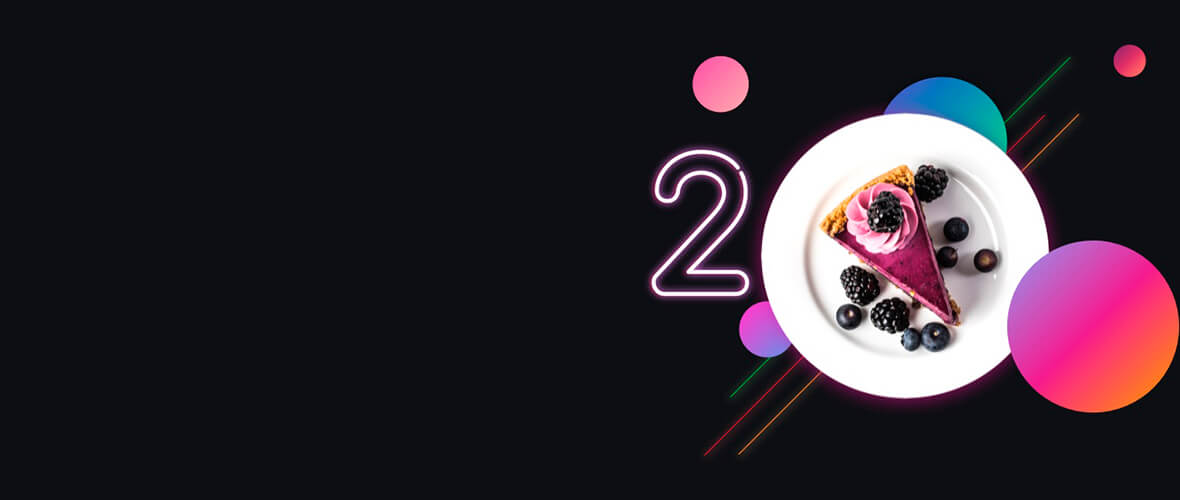
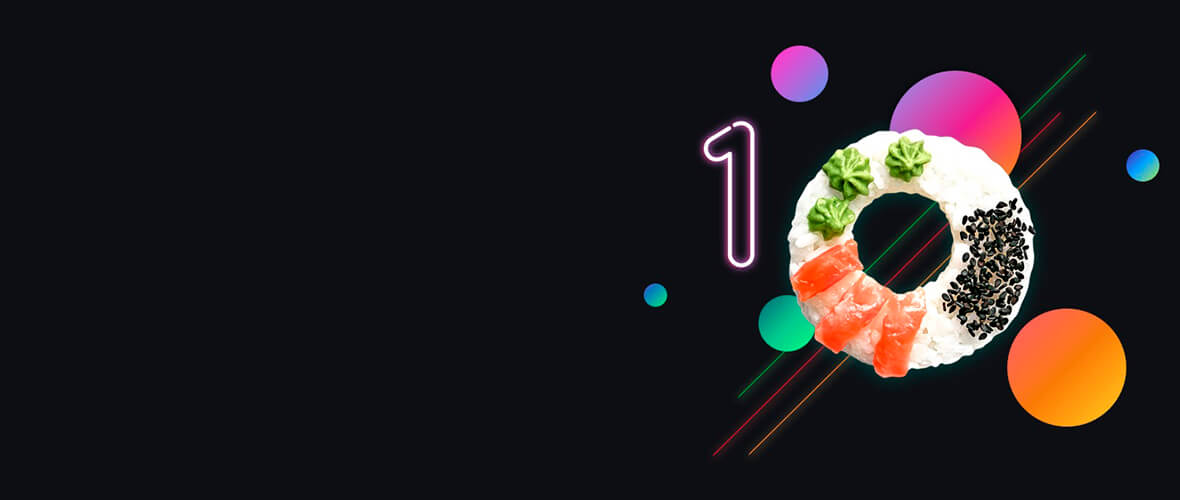
update2

diff --git a/css/main.css b/css/main.css
@@ -1,1 +1,1 @@
-@font-face{font-family:'Geometria Medium';src:url(../fonts/Geometria/Geometria-Medium.eot);src:url(../fonts/Geometria/Geometria-Medium.eot?#iefix) format('embedded-opentype'),url(../fonts/Geometria/Geometria-Medium.woff) format('woff'),url(../fonts/Geometria/Geometria-Medium.ttf) format('truetype');font-weight:400;font-style:normal}@font-face{font-family:'Geometria Bold';src:url(../fonts/Geometria/Geometria-Bold.eot);src:url(../fonts/Geometria/Geometria-Bold.eot?#iefix) format('embedded-opentype'),url(../fonts/Geometria/Geometria-Bold.woff) format('woff'),url(../fonts/Geometria/Geometria-Bold.ttf) format('truetype');font-weight:400;font-style:normal}*,::after,::before{-webkit-box-sizing:border-box;box-sizing:border-box}html{height:100%}body{-webkit-text-size-adjust:none;-webkit-font-smoothing:antialiased;-moz-osx-font-smoothing:grayscale;text-rendering:optimizeLegibility;background:#fff;color:#151619;font-size:16px;line-height:1.75em;font-family:Geometria,"Helvetica Neue",Arial,-apple-system,BlinkMacSystemFont,sans-serif}ul{list-style:none;margin:0;padding:0}a{text-decoration:none}a:hover{text-decoration:none}.container{margin:0 auto;padding:0 20px;max-width:1220px}.visually__hidden{display:none}.header__top .container{display:-webkit-box;display:-ms-flexbox;display:flex;-webkit-box-align:center;-ms-flex-align:center;align-items:center;-webkit-box-pack:justify;-ms-flex-pack:justify;justify-content:space-between}.logo{display:-webkit-box;display:-ms-flexbox;display:flex;-webkit-box-align:center;-ms-flex-align:center;align-items:center;padding-top:5px;padding-bottom:5px;margin-right:31px}.logo__text{color:#151619;font-weight:700;margin-left:10px}.header__top-left,.header__top-right{display:-webkit-box;display:-ms-flexbox;display:flex;-webkit-box-align:center;-ms-flex-align:center;align-items:center}.nav__list{display:-webkit-box;display:-ms-flexbox;display:flex;-webkit-box-align:center;-ms-flex-align:center;align-items:center}.nav__item{margin-right:21px}.nav__link{color:#151619;font-size:14px;line-height:22px;font-weight:500}.nav__link:hover{color:#e0112f;-webkit-transition:all .3s;transition:all .3s}.header__phone{color:#151619;font-size:14px;line-height:1;font-weight:500;display:inline-block;margin-bottom:3px}.header__time{margin:0;color:rgba(21,22,25,.5);font-size:12px;line-height:1}.header__cart_info{margin-right:30px;display:inline-block;vertical-align:middle;color:#151619;font-size:14px;line-height:1;font-weight:500}.header__cart_info span{color:#e0112f;display:block;padding-top:2px;font-size:12px;-webkit-transition:all .3s;transition:all .3s}.header__cart-btn{display:-webkit-inline-box;display:-ms-inline-flexbox;display:inline-flex;-webkit-box-align:center;-ms-flex-align:center;align-items:center;-webkit-box-pack:center;-ms-flex-pack:center;justify-content:center;vertical-align:middle;border-radius:17px;background:#e0112f;color:#fff;position:relative;font-size:14px;line-height:1;font-weight:500;padding:9px 20px;height:34px;white-space:nowrap;-webkit-transition:all .3s;transition:all .3s}.header__cart-btn svg{width:14px;height:14px;display:inline-block;vertical-align:middle;margin-right:7px;margin-top:-2px;fill:#fff}.header__account-login{color:#151619;font-size:14px;line-height:1;font-weight:500;display:inline-block;padding:0 10px}.header__account-login:hover{color:#e0112f;-webkit-transition:all .3s;transition:all .3s}.header__bottom{position:relative;height:50px;border-top:1px solid #eaeaea;border-bottom:1px solid #eaeaea;z-index:0}.main__navs{display:-webkit-box;display:-ms-flexbox;display:flex;-webkit-box-align:center;-ms-flex-align:center;align-items:center;padding:6px 0}.main__nav-link{display:block;padding:5px 17.5px;font-size:14px;line-height:22px;font-weight:500;border-radius:17px;border:1px solid rgba(230,230,230,0);color:#151619;-webkit-transition:all .3s;transition:all .3s}.main__nav-link:hover{border:1px solid #eaeaea;-webkit-transition:all .3s;transition:all .3s}.mobile__wrapper{display:-webkit-box;display:-ms-flexbox;display:flex;-webkit-box-align:center;-ms-flex-align:center;align-items:center;-webkit-box-pack:justify;-ms-flex-pack:justify;justify-content:space-between;-webkit-box-orient:horizontal;-webkit-box-direction:reverse;-ms-flex-direction:row-reverse;flex-direction:row-reverse}.mobile__menu{margin-top:15px}.mobile__menu-text{color:#000;margin-top:5px}.mobile__wrapper{display:none}@media (max-width:1220px){.phone__time{display:block}.main__nav{display:block}.header__cart-btn{display:none}.header__account{display:block}.mobile__wrapper{display:-webkit-box!important;display:-ms-flexbox!important;display:flex!important}.main__navs{display:none}}@media (max-width:900px){.phone__time{display:block}.main__nav{display:block}.header__cart-btn{display:none}.header__account{display:block}.mobile__wrapper{display:-webkit-box!important;display:-ms-flexbox!important;display:flex!important}.main__navs{display:none}}@media (max-width:800px){.phone__time{display:block}.main__nav{display:none}.main__navs{display:none}.header__cart-btn{display:none}.header__account{display:block}.mobile__wrapper{display:-webkit-box!important;display:-ms-flexbox!important;display:flex!important}}@media (max-width:734px){.phone__time{display:none}.main__navs{display:none}.header__cart-btn{display:none}.header__account{display:none}.mobile__wrapper{display:-webkit-box!important;display:-ms-flexbox!important;display:flex!important}}
+@font-face{font-family:'Geometria Medium';src:url(../fonts/Geometria/Geometria-Medium.eot);src:url(../fonts/Geometria/Geometria-Medium.eot?#iefix) format('embedded-opentype'),url(../fonts/Geometria/Geometria-Medium.woff) format('woff'),url(../fonts/Geometria/Geometria-Medium.ttf) format('truetype');font-weight:400;font-style:normal}@font-face{font-family:'Geometria Bold';src:url(../fonts/Geometria/Geometria-Bold.eot);src:url(../fonts/Geometria/Geometria-Bold.eot?#iefix) format('embedded-opentype'),url(../fonts/Geometria/Geometria-Bold.woff) format('woff'),url(../fonts/Geometria/Geometria-Bold.ttf) format('truetype');font-weight:400;font-style:normal}*,::after,::before{-webkit-box-sizing:border-box;box-sizing:border-box}html{height:100%}body{-webkit-text-size-adjust:none;-webkit-font-smoothing:antialiased;-moz-osx-font-smoothing:grayscale;text-rendering:optimizeLegibility;background:#fff;color:#151619;font-size:16px;line-height:1.75em;font-family:Geometria,"Helvetica Neue",Arial,-apple-system,BlinkMacSystemFont,sans-serif}ul{list-style:none;margin:0;padding:0}a{text-decoration:none}a:hover{text-decoration:none}.container{margin:0 auto;padding:0 20px;max-width:1220px}.visually__hidden{display:none}.header__top .container{display:-webkit-box;display:-ms-flexbox;display:flex;-webkit-box-align:center;-ms-flex-align:center;align-items:center;-webkit-box-pack:justify;-ms-flex-pack:justify;justify-content:space-between}.logo{display:-webkit-box;display:-ms-flexbox;display:flex;-webkit-box-align:center;-ms-flex-align:center;align-items:center;padding-top:5px;padding-bottom:5px;margin-right:31px}.logo__text{color:#151619;font-weight:700;margin-left:10px}.header__top-left,.header__top-right{display:-webkit-box;display:-ms-flexbox;display:flex;-webkit-box-align:center;-ms-flex-align:center;align-items:center}.nav__list{display:-webkit-box;display:-ms-flexbox;display:flex;-webkit-box-align:center;-ms-flex-align:center;align-items:center}.nav__item{margin-right:21px}.nav__link{color:#151619;font-size:14px;line-height:22px;font-weight:500}.nav__link:hover{color:#e0112f;-webkit-transition:all .3s;transition:all .3s}.header__phone{color:#151619;font-size:14px;line-height:1;font-weight:500;display:inline-block;margin-bottom:3px}.header__time{margin:0;color:rgba(21,22,25,.5);font-size:12px;line-height:1}.header__cart_info{margin-right:30px;display:inline-block;vertical-align:middle;color:#151619;font-size:14px;line-height:1;font-weight:500}.header__cart_info span{color:#e0112f;display:block;padding-top:2px;font-size:12px;-webkit-transition:all .3s;transition:all .3s}.header__cart-btn{display:-webkit-inline-box;display:-ms-inline-flexbox;display:inline-flex;-webkit-box-align:center;-ms-flex-align:center;align-items:center;-webkit-box-pack:center;-ms-flex-pack:center;justify-content:center;vertical-align:middle;border-radius:17px;background:#e0112f;color:#fff;position:relative;font-size:14px;line-height:1;font-weight:500;padding:9px 20px;height:34px;white-space:nowrap;-webkit-transition:all .3s;transition:all .3s}.header__cart-btn svg{width:14px;height:14px;display:inline-block;vertical-align:middle;margin-right:7px;margin-top:-2px;fill:#fff}.header__account-login{color:#151619;font-size:14px;line-height:1;font-weight:500;display:inline-block;padding:0 10px}.header__account-login:hover{color:#e0112f;-webkit-transition:all .3s;transition:all .3s}.header__bottom{position:relative;height:50px;border-top:1px solid #eaeaea;border-bottom:1px solid #eaeaea;z-index:0}.main__navs{display:-webkit-box;display:-ms-flexbox;display:flex;-webkit-box-align:center;-ms-flex-align:center;align-items:center;padding:6px 0}.main__nav-link{display:block;padding:5px 17.5px;font-size:14px;line-height:22px;font-weight:500;border-radius:17px;border:1px solid rgba(230,230,230,0);color:#151619;-webkit-transition:all .3s;transition:all .3s}.main__nav-link:hover{border:1px solid #eaeaea;-webkit-transition:all .3s;transition:all .3s}.mobile__wrapper{display:-webkit-box;display:-ms-flexbox;display:flex;-webkit-box-align:center;-ms-flex-align:center;align-items:center;-webkit-box-pack:justify;-ms-flex-pack:justify;justify-content:space-between;-webkit-box-orient:horizontal;-webkit-box-direction:reverse;-ms-flex-direction:row-reverse;flex-direction:row-reverse}.mobile__menu{margin-top:15px}.mobile__menu-text{color:#000;margin-top:5px}.mobile__wrapper{display:none}.main__slider{margin-top:20px}.slider__item{padding-top:100px;padding-left:100px;border-radius:20px;height:500px}.slider__item1{background:url(../img/slider/slide-1.jpg)}.slider__item2{background:url(../img/slider/slide-2.jpg)}.slider__item3{background:url(../img/slider/slide-3.jpg)}.slider__title{color:#ff1739;font-size:52px;line-height:1;margin-bottom:21px;max-width:380px;font-weight:700}.slider__desc{font-size:14px;line-height:22px;font-weight:500;max-width:280px;margin-bottom:27px;color:#fff}.slider__btn{border:0;outline:0;text-decoration:none;display:inline-block;background:#e0112f;color:#fff;text-align:center;padding:10px 20px;border-radius:17px;-webkit-user-select:none;-moz-user-select:none;-ms-user-select:none;user-select:none;font-size:14px;font-weight:500;line-height:1;-webkit-transition:all .3s;transition:all .3s}@media (max-width:1220px){.phone__time{display:block}.main__nav{display:block}.header__cart-btn{display:none}.header__account{display:block}.mobile__wrapper{display:-webkit-box!important;display:-ms-flexbox!important;display:flex!important}.main__navs{display:none}}@media (max-width:900px){.phone__time{display:block}.main__nav{display:block}.header__cart-btn{display:none}.header__account{display:block}.mobile__wrapper{display:-webkit-box!important;display:-ms-flexbox!important;display:flex!important}.main__navs{display:none}}@media (max-width:800px){.phone__time{display:block}.main__nav{display:none}.main__navs{display:none}.header__cart-btn{display:none}.header__account{display:block}.mobile__wrapper{display:-webkit-box!important;display:-ms-flexbox!important;display:flex!important}}@media (max-width:734px){.phone__time{display:none}.main__navs{display:none}.header__cart-btn{display:none}.header__account{display:none}.mobile__wrapper{display:-webkit-box!important;display:-ms-flexbox!important;display:flex!important}}

diff --git a/index.html b/index.html
@@ -1,7 +1,7 @@
-<!DOCTYPE html><html lang="ru"><head><meta charset="UTF-8"><meta name="viewport" content="width=device-width,initial-scale=1"><meta http-equiv="X-UA-Compatible" content="ie=edge"><title>Red Dragon</title><link rel="icon" href="img/favicon.ico"><link rel="stylesheet" href="css/owl.carousel.min.css"><link rel="stylesheet" href="css/normalize.css"><link rel="stylesheet" href="css/main.css"><link href="https://fonts.googleapis.com/css?family=Open+Sans:400,600,700,800&display=swap&subset=cyrillic" rel="stylesheet"></head><body><!--Шапка сайта--><header class="header"><div class="header__top"><div class="container"><div class="header__top-left"><a href="#" class="logo"><img src="img/logo.png" alt="Red Dragon" class="logo__img" width="48" height="48"> <span class="logo__text">Red Dragon</span></a><div class="phone__time"><a href="tel:+74952122212" class="header__phone" data-goal-target="phone">+7 (495) 212-2-212</a><p class="header__time">Доставка:<span class="header__time-value">09:00–05:00</span></p></div><!-- /.phone__time --></div><nav class="main__nav"><ul class="nav__list"><li class="nav__item"><a href="#" class="nav__link">Рестораны</a></li><li class="nav__item"><a href="#" class="nav__link">Доставка</a></li><li class="nav__item"><a href="#" class="nav__link">Акции</a></li><li class="nav__item"><a href="#" class="nav__link">О нас</a></li></ul></nav><div class="header__top-right"><div class="header__cart"><span class="header__cart_info-wrapper"><a href="#" class="header__cart_info">0 ₽ <span>0 товаров</span> </a></span><a href="#" class="header__cart-btn"><svg height="512pt" viewBox="0 -31 512.00033 512" width="512pt" xmlns="http://www.w3.org/2000/svg"><path d="m166 300.003906h271.003906c6.710938 0 12.597656-4.4375 14.414063-10.882812l60.003906-210.003906c1.289063-4.527344.40625-9.390626-2.433594-13.152344-2.84375-3.75-7.265625-5.964844-11.984375-5.964844h-365.632812l-10.722656-48.25c-1.523438-6.871094-7.617188-11.75-14.648438-11.75h-91c-8.289062 0-15 6.710938-15 15 0 8.292969 6.710938 15 15 15h78.960938l54.167968 243.75c-15.9375 6.929688-27.128906 22.792969-27.128906 41.253906 0 24.8125 20.1875 45 45 45h271.003906c8.292969 0 15-6.707031 15-15 0-8.289062-6.707031-15-15-15h-271.003906c-8.261719 0-15-6.722656-15-15s6.738281-15 15-15zm0 0"/><path d="m151 405.003906c0 24.816406 20.1875 45 45.003906 45 24.8125 0 45-20.183594 45-45 0-24.8125-20.1875-45-45-45-24.816406 0-45.003906 20.1875-45.003906 45zm0 0"/><path d="m362.003906 405.003906c0 24.816406 20.1875 45 45 45 24.816406 0 45-20.183594 45-45 0-24.8125-20.183594-45-45-45-24.8125 0-45 20.1875-45 45zm0 0"/></svg> <span class="header__cart-btn__text">Корзина</span></a></div><div class="header__account"><a href="#" class="header__account-login">Войти</a></div></div></div><!-- /.container --></div><!-- /.header__top --><div class="header__bottom"><div class="container"><div class="mobile__wrapper"><a href="#" class="mobile__menu"><img src="img/svg/menu.svg" alt="menu" class="menu__icon" width="20" height="20"> </a><a href="#" class="mobile__menu-text">Меню</a></div><ul class="main__navs"><li class="main__nav-item"><a href="#" class="main__nav-link">Суши</a></li><li class="main__nav-item"><a href="#" class="main__nav-link">Роллы</a></li><li class="main__nav-item"><a href="#" class="main__nav-link">Сеты</a></li><li class="main__nav-item"><a href="#" class="main__nav-link">Пицца</a></li><li class="main__nav-item"><a href="#" class="main__nav-link">Салаты</a></li><li class="main__nav-item"><a href="#" class="main__nav-link">Супы</a></li><li class="main__nav-item"><a href="#" class="main__nav-link">Закуски</a></li><li class="main__nav-item"><a href="#" class="main__nav-link">Горячее</a></li><li class="main__nav-item"><a href="#" class="main__nav-link">Лапша и паста</a></li><li class="main__nav-item"><a href="#" class="main__nav-link">Бургеры</a></li><li class="main__nav-item"><a href="#" class="main__nav-link">Десерты</a></li><li class="main__nav-item"><a href="#" class="main__nav-link">Соусы</a></li><li class="main__nav-item"><a href="#" class="main__nav-link">Напитки</a></li></ul></div><!-- /.container --></div><!-- /.header__bottom --></header><!--/Шапка сайта--><!--Слайдер сайта--><div class="main__slider"><div class="slider__item"><h2 class="slider__title">Скидка 20%</h2><p class="slider__desc">При самовывозе заказа. Ждем вас!</p><a href="#" class="slider__link">Подробнее</a></div><div class="slider__item"><h2 class="slider__title">Ролл в подарок</h2><p class="slider__desc">Ролл калифорния с креветкой в подарок при заказе от 1800 ₽</p><a href="#" class="slider__link">Подробнее</a></div><div class="slider__item"><h2 class="slider__title">Скидка 10%</h2><p class="slider__desc">На ваш День Рождения!</p><a href="#" class="slider__link">Подробнее</a></div></div><!--/Слайдер сайта--><!--Scripts--><script src="https://ajax.googleapis.com/ajax/libs/jquery/3.3.1/jquery.min.js"></script><script src="js/owl.carousel.min.js"></script><script>$('.main__slider').owlCarousel({
+<!DOCTYPE html><html lang="ru"><head><meta charset="UTF-8"><meta name="viewport" content="width=device-width,initial-scale=1"><meta http-equiv="X-UA-Compatible" content="ie=edge"><title>Red Dragon</title><link rel="icon" href="img/favicon.ico"><link rel="stylesheet" href="css/owl.carousel.min.css"><link rel="stylesheet" href="css/normalize.css"><link rel="stylesheet" href="css/main.css"><link href="https://fonts.googleapis.com/css?family=Open+Sans:400,600,700,800&display=swap&subset=cyrillic" rel="stylesheet"></head><body><!--Шапка сайта--><header class="header"><div class="header__top"><div class="container"><div class="header__top-left"><a href="#" class="logo"><img src="img/logo.png" alt="Red Dragon" class="logo__img" width="48" height="48"> <span class="logo__text">Red Dragon</span></a><div class="phone__time"><a href="tel:+74952122212" class="header__phone" data-goal-target="phone">+7 (495) 212-2-212</a><p class="header__time">Доставка:<span class="header__time-value">09:00–05:00</span></p></div><!-- /.phone__time --></div><nav class="main__nav"><ul class="nav__list"><li class="nav__item"><a href="#" class="nav__link">Рестораны</a></li><li class="nav__item"><a href="#" class="nav__link">Доставка</a></li><li class="nav__item"><a href="#" class="nav__link">Акции</a></li><li class="nav__item"><a href="#" class="nav__link">О нас</a></li></ul></nav><div class="header__top-right"><div class="header__cart"><span class="header__cart_info-wrapper"><a href="#" class="header__cart_info">0 ₽ <span>0 товаров</span> </a></span><a href="#" class="header__cart-btn"><svg height="512pt" viewBox="0 -31 512.00033 512" width="512pt" xmlns="http://www.w3.org/2000/svg"><path d="m166 300.003906h271.003906c6.710938 0 12.597656-4.4375 14.414063-10.882812l60.003906-210.003906c1.289063-4.527344.40625-9.390626-2.433594-13.152344-2.84375-3.75-7.265625-5.964844-11.984375-5.964844h-365.632812l-10.722656-48.25c-1.523438-6.871094-7.617188-11.75-14.648438-11.75h-91c-8.289062 0-15 6.710938-15 15 0 8.292969 6.710938 15 15 15h78.960938l54.167968 243.75c-15.9375 6.929688-27.128906 22.792969-27.128906 41.253906 0 24.8125 20.1875 45 45 45h271.003906c8.292969 0 15-6.707031 15-15 0-8.289062-6.707031-15-15-15h-271.003906c-8.261719 0-15-6.722656-15-15s6.738281-15 15-15zm0 0"/><path d="m151 405.003906c0 24.816406 20.1875 45 45.003906 45 24.8125 0 45-20.183594 45-45 0-24.8125-20.1875-45-45-45-24.816406 0-45.003906 20.1875-45.003906 45zm0 0"/><path d="m362.003906 405.003906c0 24.816406 20.1875 45 45 45 24.816406 0 45-20.183594 45-45 0-24.8125-20.183594-45-45-45-24.8125 0-45 20.1875-45 45zm0 0"/></svg> <span class="header__cart-btn__text">Корзина</span></a></div><div class="header__account"><a href="#" class="header__account-login">Войти</a></div></div></div><!-- /.container --></div><!-- /.header__top --><div class="header__bottom"><div class="container"><div class="mobile__wrapper"><a href="#" class="mobile__menu"><img src="img/svg/menu.svg" alt="menu" class="menu__icon" width="20" height="20"> </a><a href="#" class="mobile__menu-text">Меню</a></div><ul class="main__navs"><li class="main__nav-item"><a href="#" class="main__nav-link">Суши</a></li><li class="main__nav-item"><a href="#" class="main__nav-link">Роллы</a></li><li class="main__nav-item"><a href="#" class="main__nav-link">Сеты</a></li><li class="main__nav-item"><a href="#" class="main__nav-link">Пицца</a></li><li class="main__nav-item"><a href="#" class="main__nav-link">Салаты</a></li><li class="main__nav-item"><a href="#" class="main__nav-link">Супы</a></li><li class="main__nav-item"><a href="#" class="main__nav-link">Закуски</a></li><li class="main__nav-item"><a href="#" class="main__nav-link">Горячее</a></li><li class="main__nav-item"><a href="#" class="main__nav-link">Лапша и паста</a></li><li class="main__nav-item"><a href="#" class="main__nav-link">Бургеры</a></li><li class="main__nav-item"><a href="#" class="main__nav-link">Десерты</a></li><li class="main__nav-item"><a href="#" class="main__nav-link">Соусы</a></li><li class="main__nav-item"><a href="#" class="main__nav-link">Напитки</a></li></ul></div><!-- /.container --></div><!-- /.header__bottom --></header><!--/Шапка сайта--><!--Слайдер сайта--><div class="main__slider owl-carousel container"><div class="slider__item slider__item1"><h2 class="slider__title">Скидка 20%</h2><p class="slider__desc">При самовывозе заказа. Ждем вас!</p><a href="#" class="slider__btn">Подробнее</a></div><div class="slider__item slider__item2"><h2 class="slider__title">Ролл в подарок</h2><p class="slider__desc">Ролл калифорния с креветкой в подарок при заказе от 1800 ₽</p><a href="#" class="slider__btn">Подробнее</a></div><div class="slider__item slider__item3"><h2 class="slider__title">Скидка 10%</h2><p class="slider__desc">На ваш День Рождения!</p><a href="#" class="slider__btn">Подробнее</a></div></div><!--/Слайдер сайта--><!--Scripts--><script src="https://ajax.googleapis.com/ajax/libs/jquery/3.3.1/jquery.min.js"></script><script src="js/owl.carousel.min.js"></script><script>$('.main__slider').owlCarousel({
         loop:false, //Зацикливаем слайдер
-        margin:0, //Отступ от элемента справа в 50px
-        dots: true,
+        margin:10, //Отступ от элемента справа в 50px
+        dots: false,
         nav:false, //Отключение навигации
         autoplay:false, //Автозапуск слайдера
         smartSpeed:1000, //Время движения слайда
